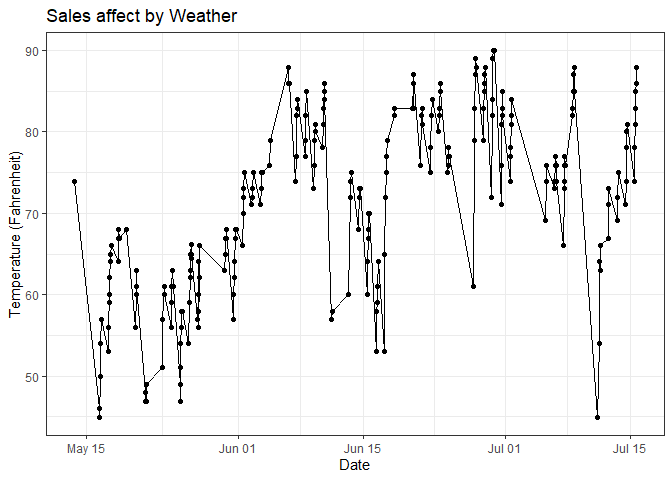
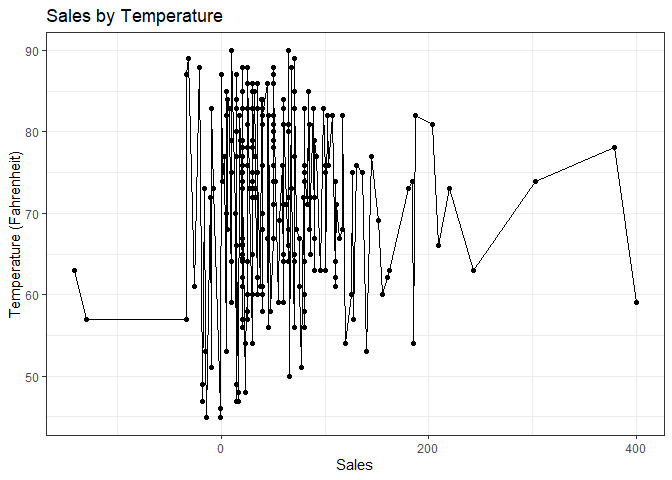
task 16 completed

diff --git a/Week9/Task16/task16.html b/Week9/Task16/task16.html
@@ -203,12 +203,12 @@ hour_sales &lt;- car_wash_hour %&gt;%
 <pre class="r"><code>#Combine Databases and graph sales by weather
 merge(hour_sales,weather, by = &quot;hour&quot;) %&gt;%
   arrange(hour) %&gt;%
-  ggplot(aes(x = hour, y = tmpf)) +
+  ggplot(aes(x = amount, y = tmpf)) +
     geom_point() +
     geom_line() +
-    labs(x = &#39;Date&#39;, y = &#39;Temperature (Fahrenheit)&#39;, title = &#39;Sales affect by Weather&#39;) +
+    labs(x = &#39;Sales&#39;, y = &#39;Temperature (Fahrenheit)&#39;, title = &#39;Sales by Temperature&#39;) +
     theme_bw()</code></pre>
[2 lines of base64/hex data omitted]
 
 
 

diff --git a/Week9/Task16/task16.md b/Week9/Task16/task16.md
@@ -50,10 +50,10 @@ weather <- riem_measures(station = "RXE",  date_start = '
 #Combine Databases and graph sales by weather
 merge(hour_sales,weather, by = "hour") %>%
   arrange(hour) %>%
-  ggplot(aes(x = hour, y = tmpf)) +
+  ggplot(aes(x = amount, y = tmpf)) +
     geom_point() +
     geom_line() +
-    labs(x = 'Date', y = 'Temperature (Fahrenheit)', title = 'Sales affect by Weather') +
+    labs(x = 'Sales', y = 'Temperature (Fahrenheit)', title = 'Sales by Temperature') +
     theme_bw()
 ```
 
